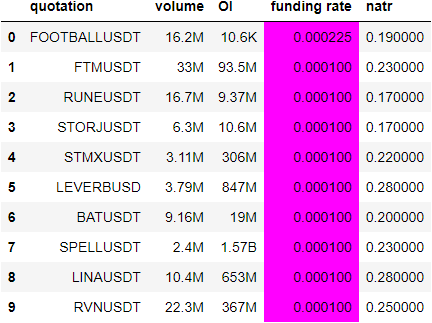
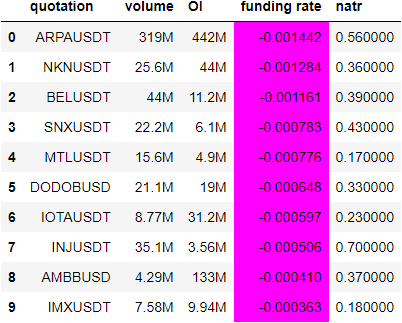
add abs funding rates sorting

diff --git a/market_screener.py b/market_screener.py
@@ -146,8 +146,11 @@ class Screener:
         upcoming_time_row = market_metrics['next_funding_time'].min()
         upcoming_fundings = \
             market_metrics[market_metrics['next_funding_time'] == upcoming_time_row]
-        sorted_df = upcoming_fundings.sort_values(by=['funding_rate'], 
-                                                  ascending=False)
+        sorted_df = upcoming_fundings.sort_values(
+            by=['funding_rate'],
+            key=abs,
+            ascending=False
+            )
         top_10_fund = sorted_df[:num]
 
         upcoming_time = datetime.fromtimestamp(int(upcoming_time_row)/1000).strftime('%Y-%m-%d %H:%M:%S')
